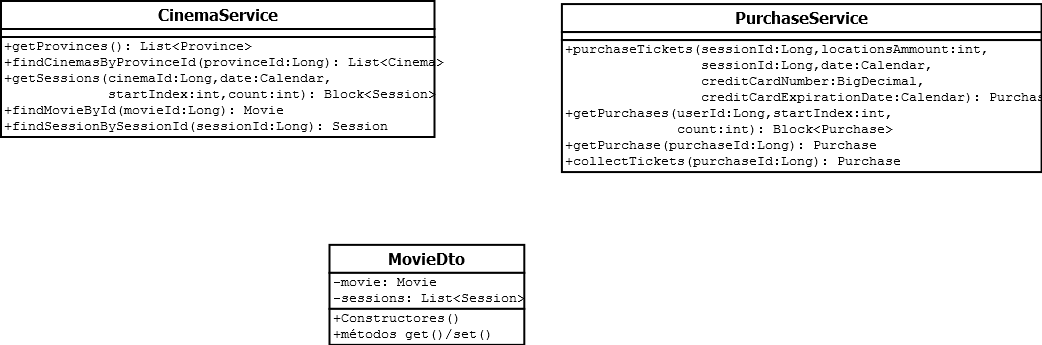
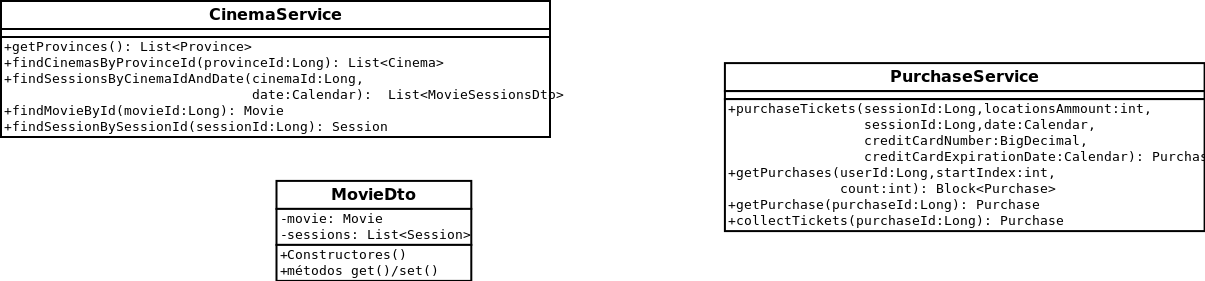
Optimizado algoritmo de recuperar sesiones del modelo.

Changed region(s): [[0.5221, 0.0, 1.0, 0.8541], [0.0, 0.0, 0.4607, 0.5125], [0.215, 0.6263, 0.5221, 1.0]]

diff --git a/src/main/java/es/udc/pa/pa009/elmocines/model/cinemaservice/CinemaServiceImpl.java b/src/main/java/es/udc/pa/pa009/elmocines/model/cinemaservice/CinemaServiceImpl.java
@@ -93,29 +93,19 @@ public class CinemaServiceImpl implements CinemaService {
 		}
 
 		List<Session> sessions = sessionDao.findSessionsByCinemaId(cinemaId, initDate, finalDate);
-		List<Movie> movies = new ArrayList<>();
 		List<MovieSessionsDto> movieSessions = new ArrayList<>();
 
 		MovieSessionsDto movieSession = null;
+		Movie movie = null;
 
-		// FIXME: no me fio yo de esta implementación
 		for (Session s : sessions) {
-			if (!movies.contains(s.getMovie())) {
-				movies.add(s.getMovie());
-				movieSession = new MovieSessionsDto(s.getMovie(), new ArrayList<>());
+			if (s.getMovie() != movie) {
+				movie = s.getMovie();
+				movieSession = new MovieSessionsDto(movie, new ArrayList<>());
 				movieSessions.add(movieSession);
-			} else {
-				if (movieSession.getMovie() != s.getMovie()) {
-					for (MovieSessionsDto m : movieSessions) {
-						if (m.getMovie().equals(s.getMovie())) {
-							movieSession = m;
-						}
-					}
-				}
 			}
 			movieSession.getSessions().add(s);
 		}
-
 		return movieSessions;
 	}
 

diff --git a/src/main/java/es/udc/pa/pa009/elmocines/model/session/SessionDaoHibernate.java b/src/main/java/es/udc/pa/pa009/elmocines/model/session/SessionDaoHibernate.java
@@ -16,7 +16,7 @@ public class SessionDaoHibernate extends GenericDaoHibernate<Session, Long> impl
 
 		return getSession()
 				.createQuery("SELECT s FROM Session s WHERE s.room.cinema.cinemaId = :cinemaId "
-						+ "AND s.date BETWEEN :initDate AND :finalDate ORDER BY s.date")
+						+ "AND s.date BETWEEN :initDate AND :finalDate ORDER BY s.movie, s.date")
 				.setParameter("cinemaId", cinemaId).setParameter("initDate", initDate)
 				.setParameter("finalDate", finalDate).getResultList();
 
